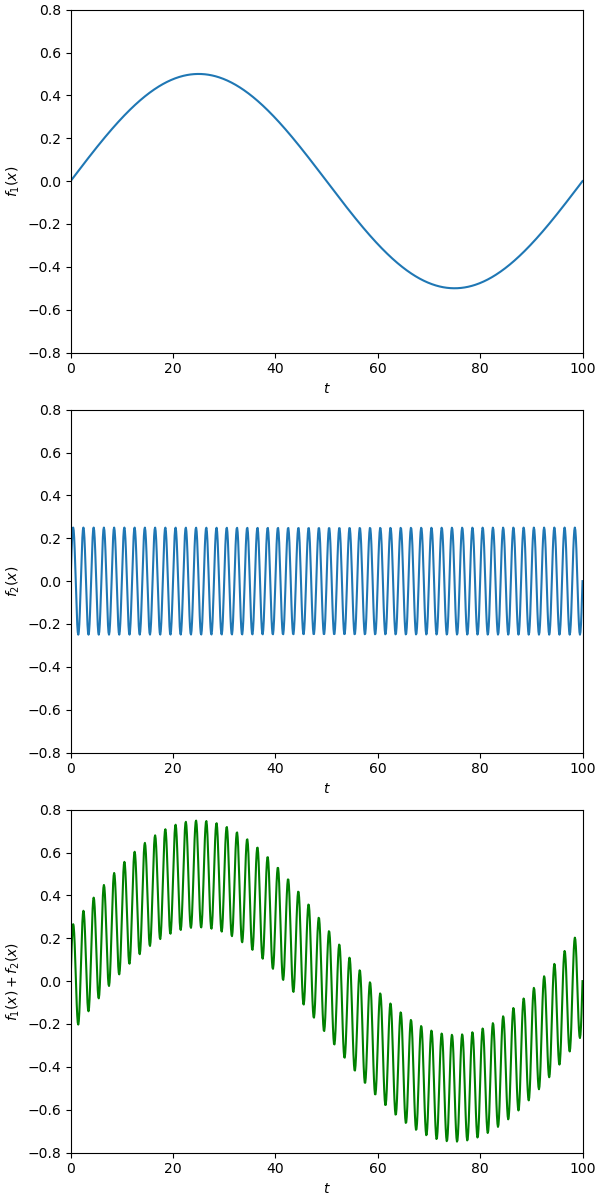
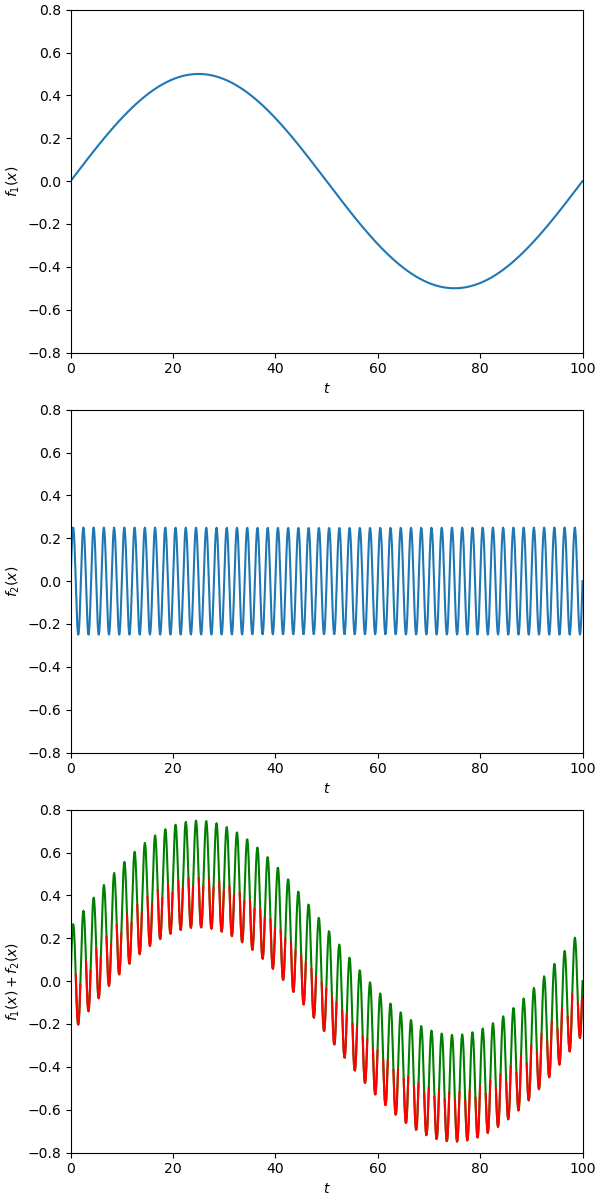
sinus colored

Changed region(s): [[0.12, 0.74, 0.99, 0.9558]]

diff --git a/izv-part01/part01.py b/izv-part01/part01.py
@@ -49,6 +49,14 @@ def generate_graph(a: List[float], show_figure: bool = False, save_path: str | N
 
     plt.close()
 
+#TODO comments
+"""
+Few sentences that explain the function. 
+
+:param x: What is it?
+:param y: What is it?
+:return: What it returns?
+"""
 
 def generate_sinus(show_figure: bool=False, save_path: str | None=None):    
     fig, axes = plt.subplots(ncols=1, nrows=3, constrained_layout=True, figsize=(6, 12))
@@ -79,6 +87,9 @@ def generate_sinus(show_figure: bool=False, save_path: str | None=None):
     ax1.plot(x, y1)
     ax2.plot(x, y2)
     ax3.plot(x, ysum, color="green")
+    
+    mask = np.ma.masked_greater(ysum, y1)
+    ax3.plot(x, mask, color="red")
 
     if save_path:
         fig.savefig(save_path)
